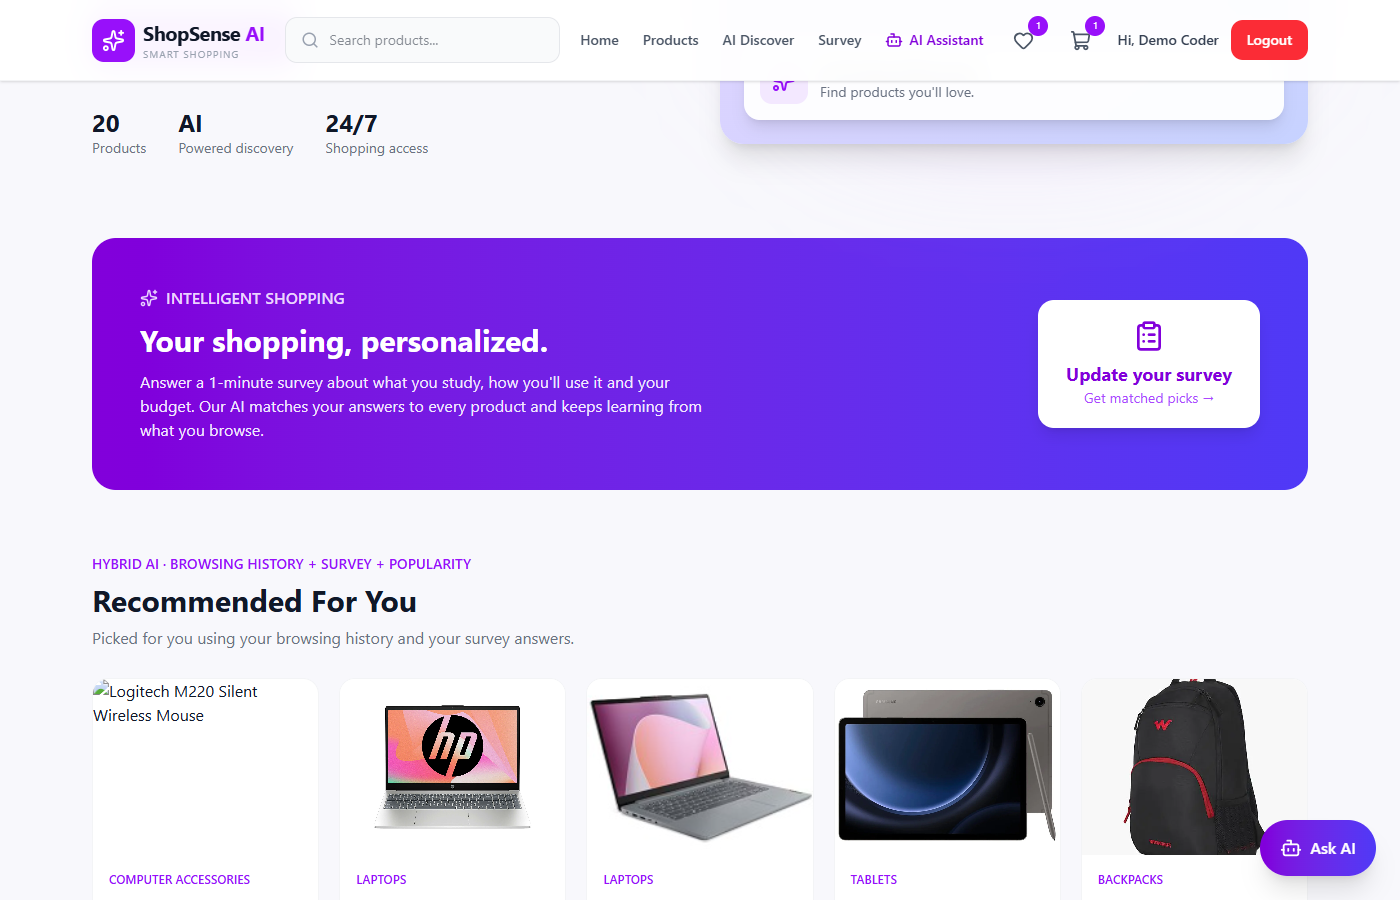
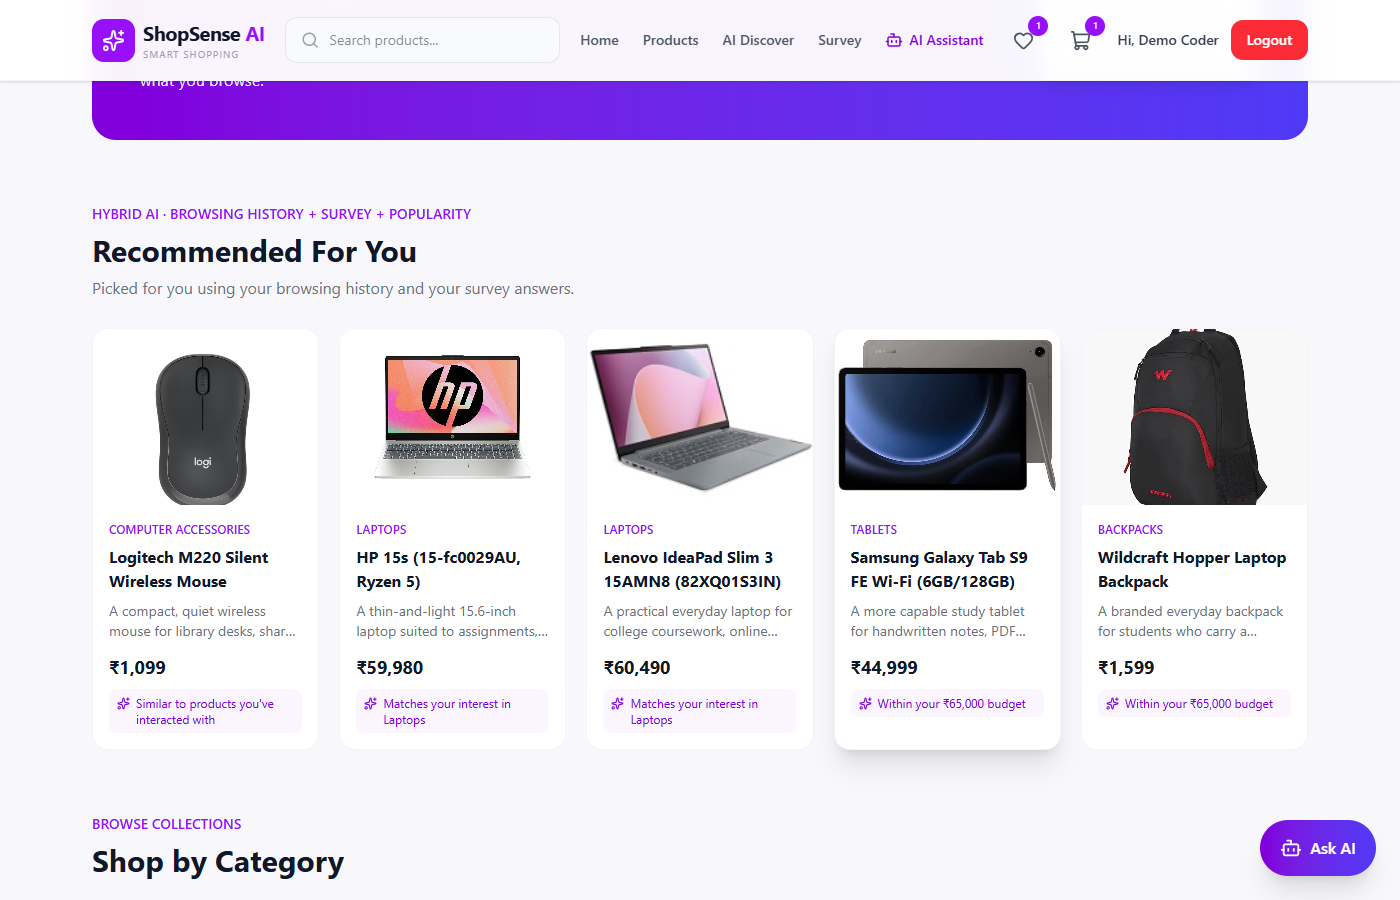
Fix product images and stale product data in caches
- Use the local photos for the 4 products whose retailer images are blocked
  (Sony WH-CH520, Logitech MK270R, Logitech M220, Portronics Modesk 200)
- ProductImage component: clean placeholder if a photo fails, used on every page
- Wishlist page now shows product photos (it read a field that was never set)
- Recommendation cache stores only the ranking; product details are read fresh
- NLP index refreshes price/image details even when the search text is unchanged
- Regression tests for both cache fixes

diff --git a/frontend/src/pages/Home.jsx b/frontend/src/pages/Home.jsx
@@ -25,6 +25,7 @@ import {
   semanticSearch,
 } from "../services/aiService";
 import { API_URL as API_BASE, getToken } from "../config";
+import ProductImage from "../components/ProductImage";
 
 const API_URL = `${API_BASE}/products/`;
 const MIN_SEMANTIC_SCORE = 0.2;
@@ -490,11 +491,7 @@ useEffect(() => {
                     >
                       <Link to={`/product/${product.id}`}>
                         {product.image ? (
-                          <img
-                            src={product.image}
-                            alt={product.name}
-                            className="w-full h-44 object-cover"
-                          />
+                          <ProductImage src={product.image} alt={product.name} className="w-full h-44 object-cover" />
                         ) : (
                           <div className="w-full h-44 bg-purple-50 flex items-center justify-center">
                             <ShoppingCart size={40} className="text-purple-400" />
@@ -719,15 +716,7 @@ useEffect(() => {
                       <div className="relative bg-gray-50">
                         <Link to={`/product/${product.id}`}>
                           {product.image ? (
-                            <img
-                              src={product.image}
-                              alt={product.name}
-                              onError={(e) => {
-                                e.currentTarget.onerror = null;
-                                e.currentTarget.style.display = "none";
-                              }}
-                              className="w-full h-56 object-cover group-hover:scale-105 transition duration-500"
-                            />
+                            <ProductImage src={product.image} alt={product.name} className="w-full h-56 object-cover group-hover:scale-105 transition duration-500" />
                           ) : (
                             <div className="w-full h-56 flex items-center justify-center bg-purple-50 text-purple-400">
                               <ShoppingCart size={45} />

diff --git a/frontend/src/pages/ProductDetails.jsx b/frontend/src/pages/ProductDetails.jsx
@@ -22,6 +22,7 @@ import {
   submitReview,
 } from "../services/aiService";
 import SentimentSummary from "../components/SentimentSummary";
+import ProductImage from "../components/ProductImage";
 
 const SENTIMENT_BADGE = {
   positive: "bg-green-100 text-green-700",
@@ -264,15 +265,7 @@ function ProductDetails() {
           {/* Product Image */}
           <div className="bg-gray-50 rounded-2xl overflow-hidden flex items-center justify-center min-h-[350px]">
             {product.image ? (
-              <img
-                src={product.image}
-                alt={product.name}
-                onError={(e) => {
-                  e.currentTarget.onerror = null;
-                  e.currentTarget.style.display = "none";
-                }}
-                className="w-full h-[350px] md:h-[480px] object-contain p-4"
-              />
+              <ProductImage src={product.image} alt={product.name} className="w-full h-[350px] md:h-[480px] object-contain p-4" />
             ) : (
               <div className="flex flex-col items-center justify-center text-purple-400">
                 <Package size={100} strokeWidth={1.2} />
@@ -562,15 +555,7 @@ function ProductDetails() {
                 >
                   <div className="bg-gray-50 h-44 flex items-center justify-center p-4">
                     {item.image ? (
-                      <img
-                        src={item.image}
-                        alt={item.name}
-                        onError={(e) => {
-                          e.currentTarget.onerror = null;
-                          e.currentTarget.style.display = "none";
-                        }}
-                        className="w-full h-full object-contain group-hover:scale-105 transition duration-300"
-                      />
+                      <ProductImage src={item.image} alt={item.name} className="w-full h-full object-contain group-hover:scale-105 transition duration-300" />
                     ) : (
                       <Package
                         size={55}

diff --git a/frontend/src/pages/Survey.jsx b/frontend/src/pages/Survey.jsx
@@ -21,6 +21,7 @@ import {
   saveSurvey,
   storeGuestSurvey,
 } from "../services/aiService";
+import ProductImage from "../components/ProductImage";
 
 const ROLES = [
   { value: "school", label: "School student" },
@@ -439,14 +440,7 @@ function Results({ results, loggedIn, onRestart, addToCart, toggleWishlist, wish
               <article key={product.id} className="flex flex-col overflow-hidden rounded-2xl border border-gray-100 bg-white">
                 <Link to={`/product/${product.id}`} className="relative block h-44 bg-gray-50">
                   {product.image_url ? (
-                    <img
-                      src={product.image_url}
-                      alt={product.name}
-                      className="h-44 w-full object-contain p-4"
-                      onError={(e) => {
-                        e.currentTarget.style.display = "none";
-                      }}
-                    />
+                    <ProductImage src={product.image_url} alt={product.name} className="h-44 w-full object-contain p-4" />
                   ) : (
                     <div className="flex h-44 items-center justify-center text-purple-300">
                       <Package size={44} />

diff --git a/frontend/src/components/chat/ChatMessage.jsx b/frontend/src/components/chat/ChatMessage.jsx
@@ -3,6 +3,7 @@ import { Bot, Package, User } from "lucide-react";
 
 import SentimentSummary from "../SentimentSummary";
 import { formatPrice } from "../../config";
+import ProductImage from "../ProductImage";
 
 function ProductCards({ products, onNavigate }) {
   if (!products?.length) return null;
@@ -17,14 +18,7 @@ function ProductCards({ products, onNavigate }) {
         >
           <div className="flex h-24 items-center justify-center bg-gray-50 p-2">
             {product.image_url ? (
-              <img
-                src={product.image_url}
-                alt={product.name}
-                className="h-full w-full object-contain"
-                onError={(e) => {
-                  e.currentTarget.style.display = "none";
-                }}
-              />
+              <ProductImage src={product.image_url} alt={product.name} className="h-full w-full object-contain" />
             ) : (
               <Package className="text-violet-300" size={32} />
             )}

diff --git a/frontend/src/pages/Cart.jsx b/frontend/src/pages/Cart.jsx
@@ -12,6 +12,7 @@ import {
   Sparkles,
   ShoppingCart,
 } from "lucide-react";
+import ProductImage from "../components/ProductImage";
 
 function Cart() {
   const { cart, removeFromCart, updateQuantity, refreshCart } = useCart();
@@ -110,11 +111,7 @@ function Cart() {
                   {/* Product Image */}
                   <div className="bg-purple-50 rounded-xl p-2 shrink-0">
                     {item.image ? (
-                      <img
-                        src={item.image}
-                        alt={item.name}
-                        className="w-full sm:w-28 h-36 sm:h-28 object-contain rounded-lg"
-                      />
+                      <ProductImage src={item.image} alt={item.name} className="w-full sm:w-28 h-36 sm:h-28 object-contain rounded-lg" />
                     ) : (
                       <div className="w-full sm:w-28 h-36 sm:h-28 flex items-center justify-center">
                         <ShoppingBag size={40} className="text-purple-300" />

diff --git a/frontend/src/pages/Wishlist.jsx b/frontend/src/pages/Wishlist.jsx
@@ -9,6 +9,7 @@ import {
   Sparkles,
   ArrowRight,
 } from "lucide-react";
+import ProductImage from "../components/ProductImage";
 
 function Wishlist() {
   const { wishlist, toggleWishlist, addToCart } = useCart();
@@ -106,11 +107,7 @@ function Wishlist() {
                 <div className="relative bg-purple-50 overflow-hidden">
 
                   <Link to={`/product/${product.id}`}>
-                    <img
-                      src={product.image}
-                      alt={product.name}
-                      className="w-full h-60 object-contain p-5 group-hover:scale-105 transition duration-500"
-                    />
+                    <ProductImage src={product.image || product.image_url} alt={product.name} className="w-full h-60 object-contain p-5 group-hover:scale-105 transition duration-500" />
                   </Link>
 
                   <div className="absolute top-4 right-4 bg-white p-2.5 rounded-full shadow-sm">

diff --git a/frontend/src/components/ProductImage.jsx b/frontend/src/components/ProductImage.jsx
@@ -1,0 +1,34 @@
+import { useState } from "react";
+import { Package } from "lucide-react";
+
+/**
+ * Product photo with a clean placeholder when the image is missing or blocked
+ * (some retailer CDNs refuse to serve their images to other sites).
+ */
+function ProductImage({ src, alt, className = "", iconSize = 40 }) {
+  const [failedSrc, setFailedSrc] = useState(null);
+
+  if (!src || failedSrc === src) {
+    return (
+      <div
+        role="img"
+        aria-label={alt}
+        className={`${className} flex items-center justify-center bg-purple-50 text-purple-300`}
+      >
+        <Package size={iconSize} strokeWidth={1.4} />
+      </div>
+    );
+  }
+
+  return (
+    <img
+      src={src}
+      alt={alt}
+      loading="lazy"
+      onError={() => setFailedSrc(src)}
+      className={className}
+    />
+  );
+}
+
+export default ProductImage;

diff --git a/backend/app/routes/ai.py b/backend/app/routes/ai.py
@@ -293,8 +293,17 @@ def cached_recommendations(user_id, limit):
     cached = payload is not None
     if not cached:
         payload = blended_recommendations(user_id, _token(), CACHED_LIMIT)
-        cache.set_recs(user_id, payload)
-    return {**payload, "recommendations": payload["recommendations"][:limit],
+        # Cache only the ranking; product details are always read fresh below so
+        # price/image/stock edits (or deleted products) never go stale.
+        cache.set_recs(user_id, {**payload, "recommendations": [
+            {k: r[k] for k in ("id", "score", "sources", "reason")}
+            for r in payload["recommendations"]]})
+    ranking = payload["recommendations"]
+    products = _products_by_id([r["id"] for r in ranking])
+    fresh = [{**product_to_dict(products[r["id"]]), **{k: r[k] for k in
+              ("score", "sources", "reason")}}
+             for r in ranking if r["id"] in products]
+    return {**payload, "recommendations": fresh[:limit],
             "cached": cached, "cache_backend": cache.BACKEND}
 
 

diff --git a/nlp-service/tests/test_search_chat_survey.py b/nlp-service/tests/test_search_chat_survey.py
@@ -153,3 +153,18 @@ def test_survey_excludes_ids_and_limits_category_repeats(services):
     assert 13 not in ids
     categories = [services.product(i)["category"] for i in ids]
     assert max(categories.count(c) for c in set(categories)) <= 3
+
+
+def test_price_and_image_changes_reach_the_index_without_rebuild(tmp_path):
+    from search.semantic_search import SemanticSearchIndex, TfidfEmbedder
+
+    products = [{"id": 1, "name": "Kettle", "description": "boils water", "price": 100.0,
+                 "image_url": "old.jpg"},
+                {"id": 2, "name": "Bottle", "description": "keeps tea hot", "price": 50.0,
+                 "image_url": "b.jpg"}]
+    index = SemanticSearchIndex(embedder=TfidfEmbedder(), artifact_dir=tmp_path)
+    assert index.build(products) is True
+    updated = [dict(products[0], price=80.0, image_url="new.jpg"), products[1]]
+    assert index.build(updated) is False  # text unchanged -> no re-embedding
+    assert index.products[1]["price"] == 80.0
+    assert index.products[1]["image_url"] == "new.jpg"

diff --git a/backend/tests/test_ai_and_survey.py b/backend/tests/test_ai_and_survey.py
@@ -205,3 +205,15 @@ def test_recommendations_cached_and_invalidated_on_change(client):
     third = client.get("/api/recommendations/me", headers=auth(token)).get_json()
     assert third["cached"] is False
     assert "survey" in third["sources_used"]
+
+
+def test_cached_recommendations_show_fresh_product_details(client, app):
+    token = login(client)["access_token"]
+    first = client.get("/api/recommendations/me", headers=auth(token)).get_json()
+    pid = first["recommendations"][0]["id"]
+    with app.app_context():
+        db.session.get(Product, pid).image_url = "/images/new.jpg"
+        db.session.commit()
+    second = client.get("/api/recommendations/me", headers=auth(token)).get_json()
+    assert second["cached"] is True
+    assert second["recommendations"][0]["image_url"] == "/images/new.jpg"

diff --git a/nlp-service/search/semantic_search.py b/nlp-service/search/semantic_search.py
@@ -150,6 +150,9 @@ class SemanticSearchIndex:
 
         with self._lock:
             if fingerprint == self.fingerprint:
+                # Searchable text is unchanged, so the vectors are still valid, but
+                # price, image, stock etc. may have changed: keep those fresh.
+                self.products = {int(p["id"]): p for p in products}
                 return False
 
             self.embedder.fit(texts)
